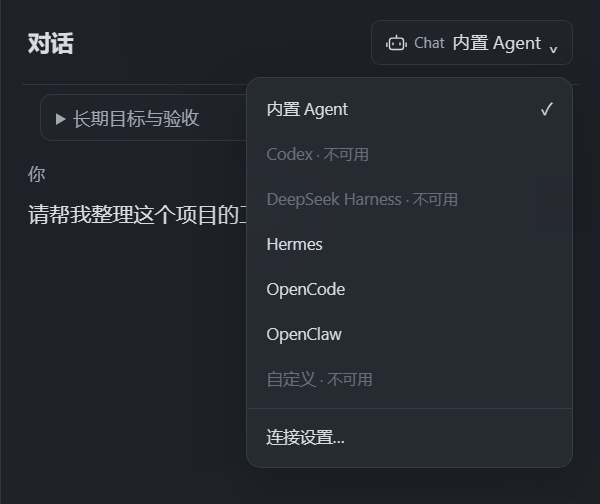
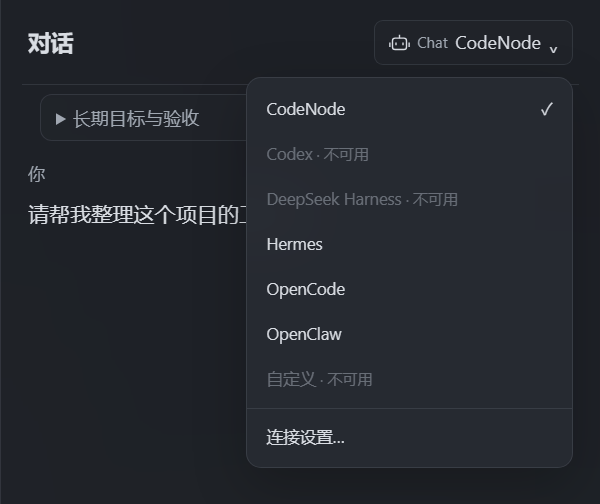
style: name the built-in Agent CodeNode across the desktop UI

Changed region(s): [[0.63, 0.0595, 0.9, 0.119], [0.45, 0.1786, 0.6, 0.2381]]

diff --git a/src/components/BackendSettingsPanel.tsx b/src/components/BackendSettingsPanel.tsx
@@ -61,7 +61,7 @@ export default function BackendSettingsPanel() {
       const result = await window.codenode.backendStatus(root, { ...settings, args, ...(isAcp ? { acp: JSON.parse(acpText) } : {}) });
       if (useProjectStore.getState().root !== root) return;
       const c = result.capabilities;
-      setMessage(!result.ok || !c?.available ? result.error || c?.error || '后端不可用' : c.backend === 'builtin' ? '内置后端可用。' : `${c.backend}${c.version ? ' ' + c.version : ''} ${c.protocol||'agent protocol'} 握手成功；${c.resume?'可恢复会话。':'不支持恢复会话。'}检测不会保存配置，认证由本机 Agent 管理。`);
+      setMessage(!result.ok || !c?.available ? result.error || c?.error || '后端不可用' : c.backend === 'builtin' ? 'CodeNode 可用。' : `${c.backend}${c.version ? ' ' + c.version : ''} ${c.protocol||'agent protocol'} 握手成功；${c.resume?'可恢复会话。':'不支持恢复会话。'}检测不会保存配置，认证由本机 Agent 管理。`);
     } catch (error) { if (useProjectStore.getState().root === root) setMessage(String(error)); }
     finally { setBusy(false); }
   };

diff --git a/src/components/AgentSwitcher.tsx b/src/components/AgentSwitcher.tsx
@@ -9,7 +9,7 @@ import { useBackendSwitchStore } from '../store/backendSwitchStore';
 import { useSending } from '../lib/useSending';
 
 type Backend = AgentBackendSettings['backend'];
-const shortLabel=(name:Backend)=>name==='builtin'?'内置 Agent':labels[name].replace(' ACP','').replace(' Agent','');
+const shortLabel=(name:Backend)=>labels[name].replace(' ACP','').replace(' Agent','');
 const labels = backendConfig.labels as Record<Backend, string>;
 export default function AgentSwitcher() {
   const root = useProjectStore(s => s.root);

diff --git a/README.md b/README.md
@@ -150,7 +150,7 @@ npm run dist:win    # Windows 打包；另有 dist:mac / dist:linux
 
 ### Agent 后端
 
-在 **对话栏顶部 → Chat／Agent 名称** 选择执行器：选中只是预览，点击“确认切换”才保存；有历史对话时使用“新建对话并切换”，保留原对话和输入草稿。运行或切换期间禁用入口。菜单以勾选标记当前 Agent；缺少本机启动命令或未配置的条目置灰显示“不可用”，只做命令探测、不发模型请求；完整连接仍在设置中检测。连接路径、参数、认证和 MCP 仍在 **设置 → 常规 → Agent 后端** 中配置，可选择内置执行器、Codex ACP、DeepSeek Harness ACP、Hermes、OpenCode、OpenClaw 或自定义 ACP Agent。所有外部后端统一走 ACP v1 stdio；界面、画布工作流和 Goal 自动推进使用同一条执行链。快捷切换有项目时只保存当前项目，未选择项目时保存本机默认。每个 Agent 的连接配置分别记住，切回时恢复已有命令、参数、模型和 ACP 设置；高级设置中仍可调整配置范围，项目可跟随本机设置。
+在 **对话栏顶部 → Chat／Agent 名称** 选择执行器：选中只是预览，点击“确认切换”才保存；有历史对话时使用“新建对话并切换”，保留原对话和输入草稿。运行或切换期间禁用入口。菜单以勾选标记当前 Agent；缺少本机启动命令或未配置的条目置灰显示“不可用”，只做命令探测、不发模型请求；完整连接仍在设置中检测。连接路径、参数、认证和 MCP 仍在 **设置 → 常规 → Agent 后端** 中配置，可选择 CodeNode（自研 Agent）、Codex ACP、DeepSeek Harness ACP、Hermes、OpenCode、OpenClaw 或自定义 ACP Agent。所有外部后端统一走 ACP v1 stdio；界面、画布工作流和 Goal 自动推进使用同一条执行链。快捷切换有项目时只保存当前项目，未选择项目时保存本机默认。每个 Agent 的连接配置分别记住，切回时恢复已有命令、参数、模型和 ACP 设置；高级设置中仍可调整配置范围，项目可跟随本机设置。
 
 | 后端 | 已安装的启动命令 | 默认参数 |
 | --- | --- | --- |
